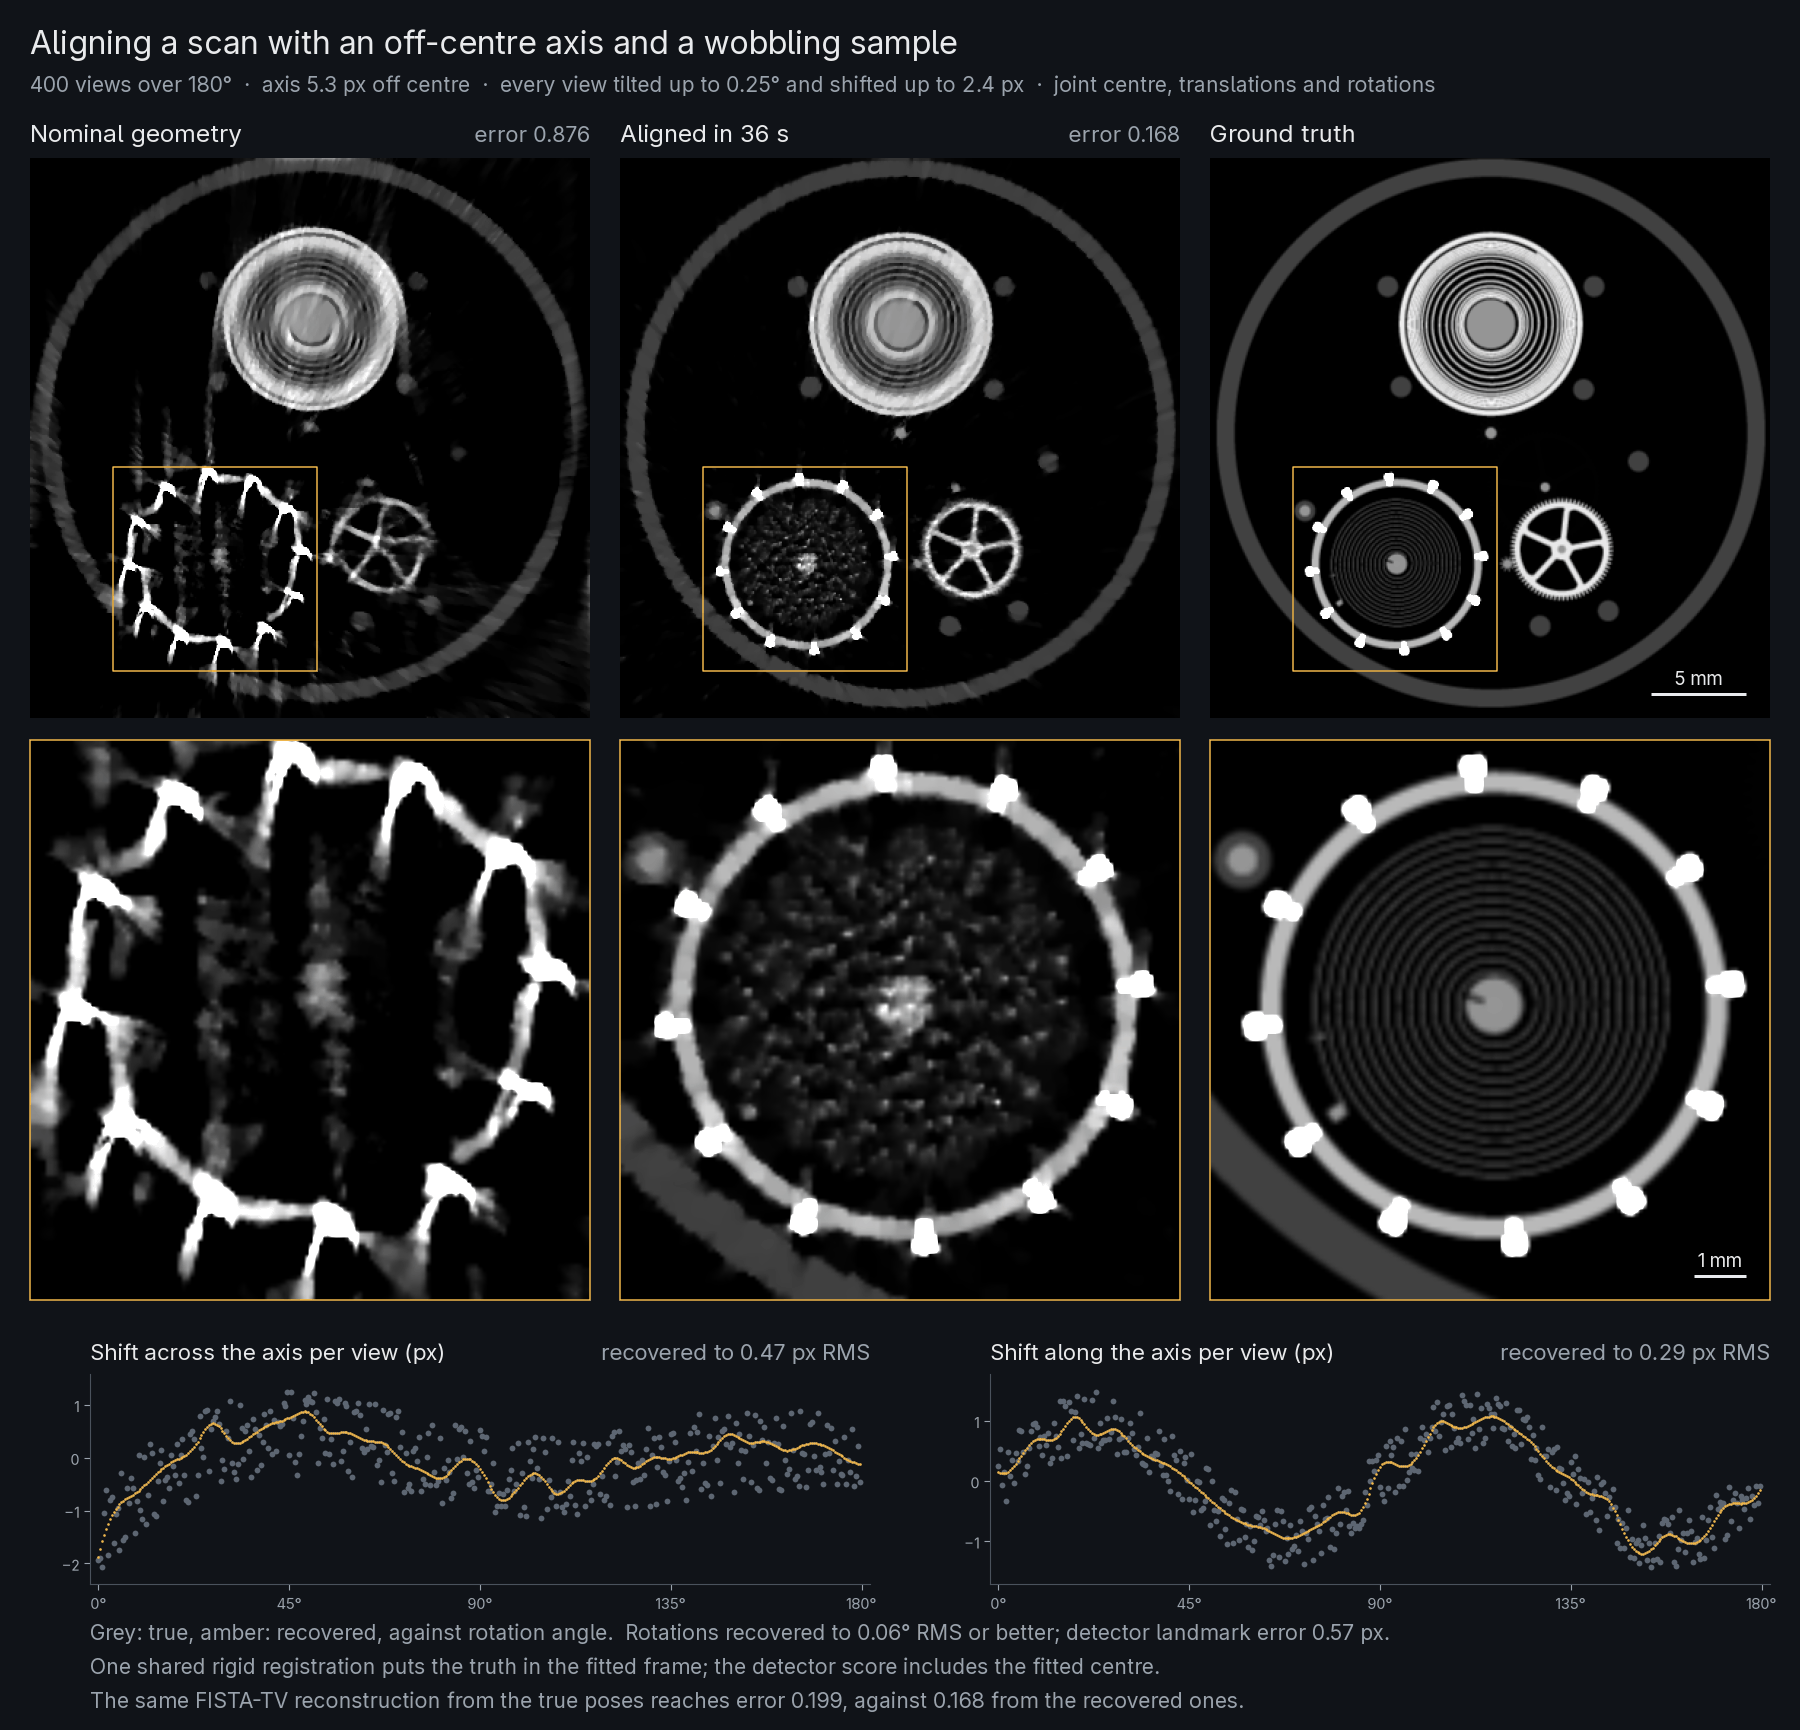
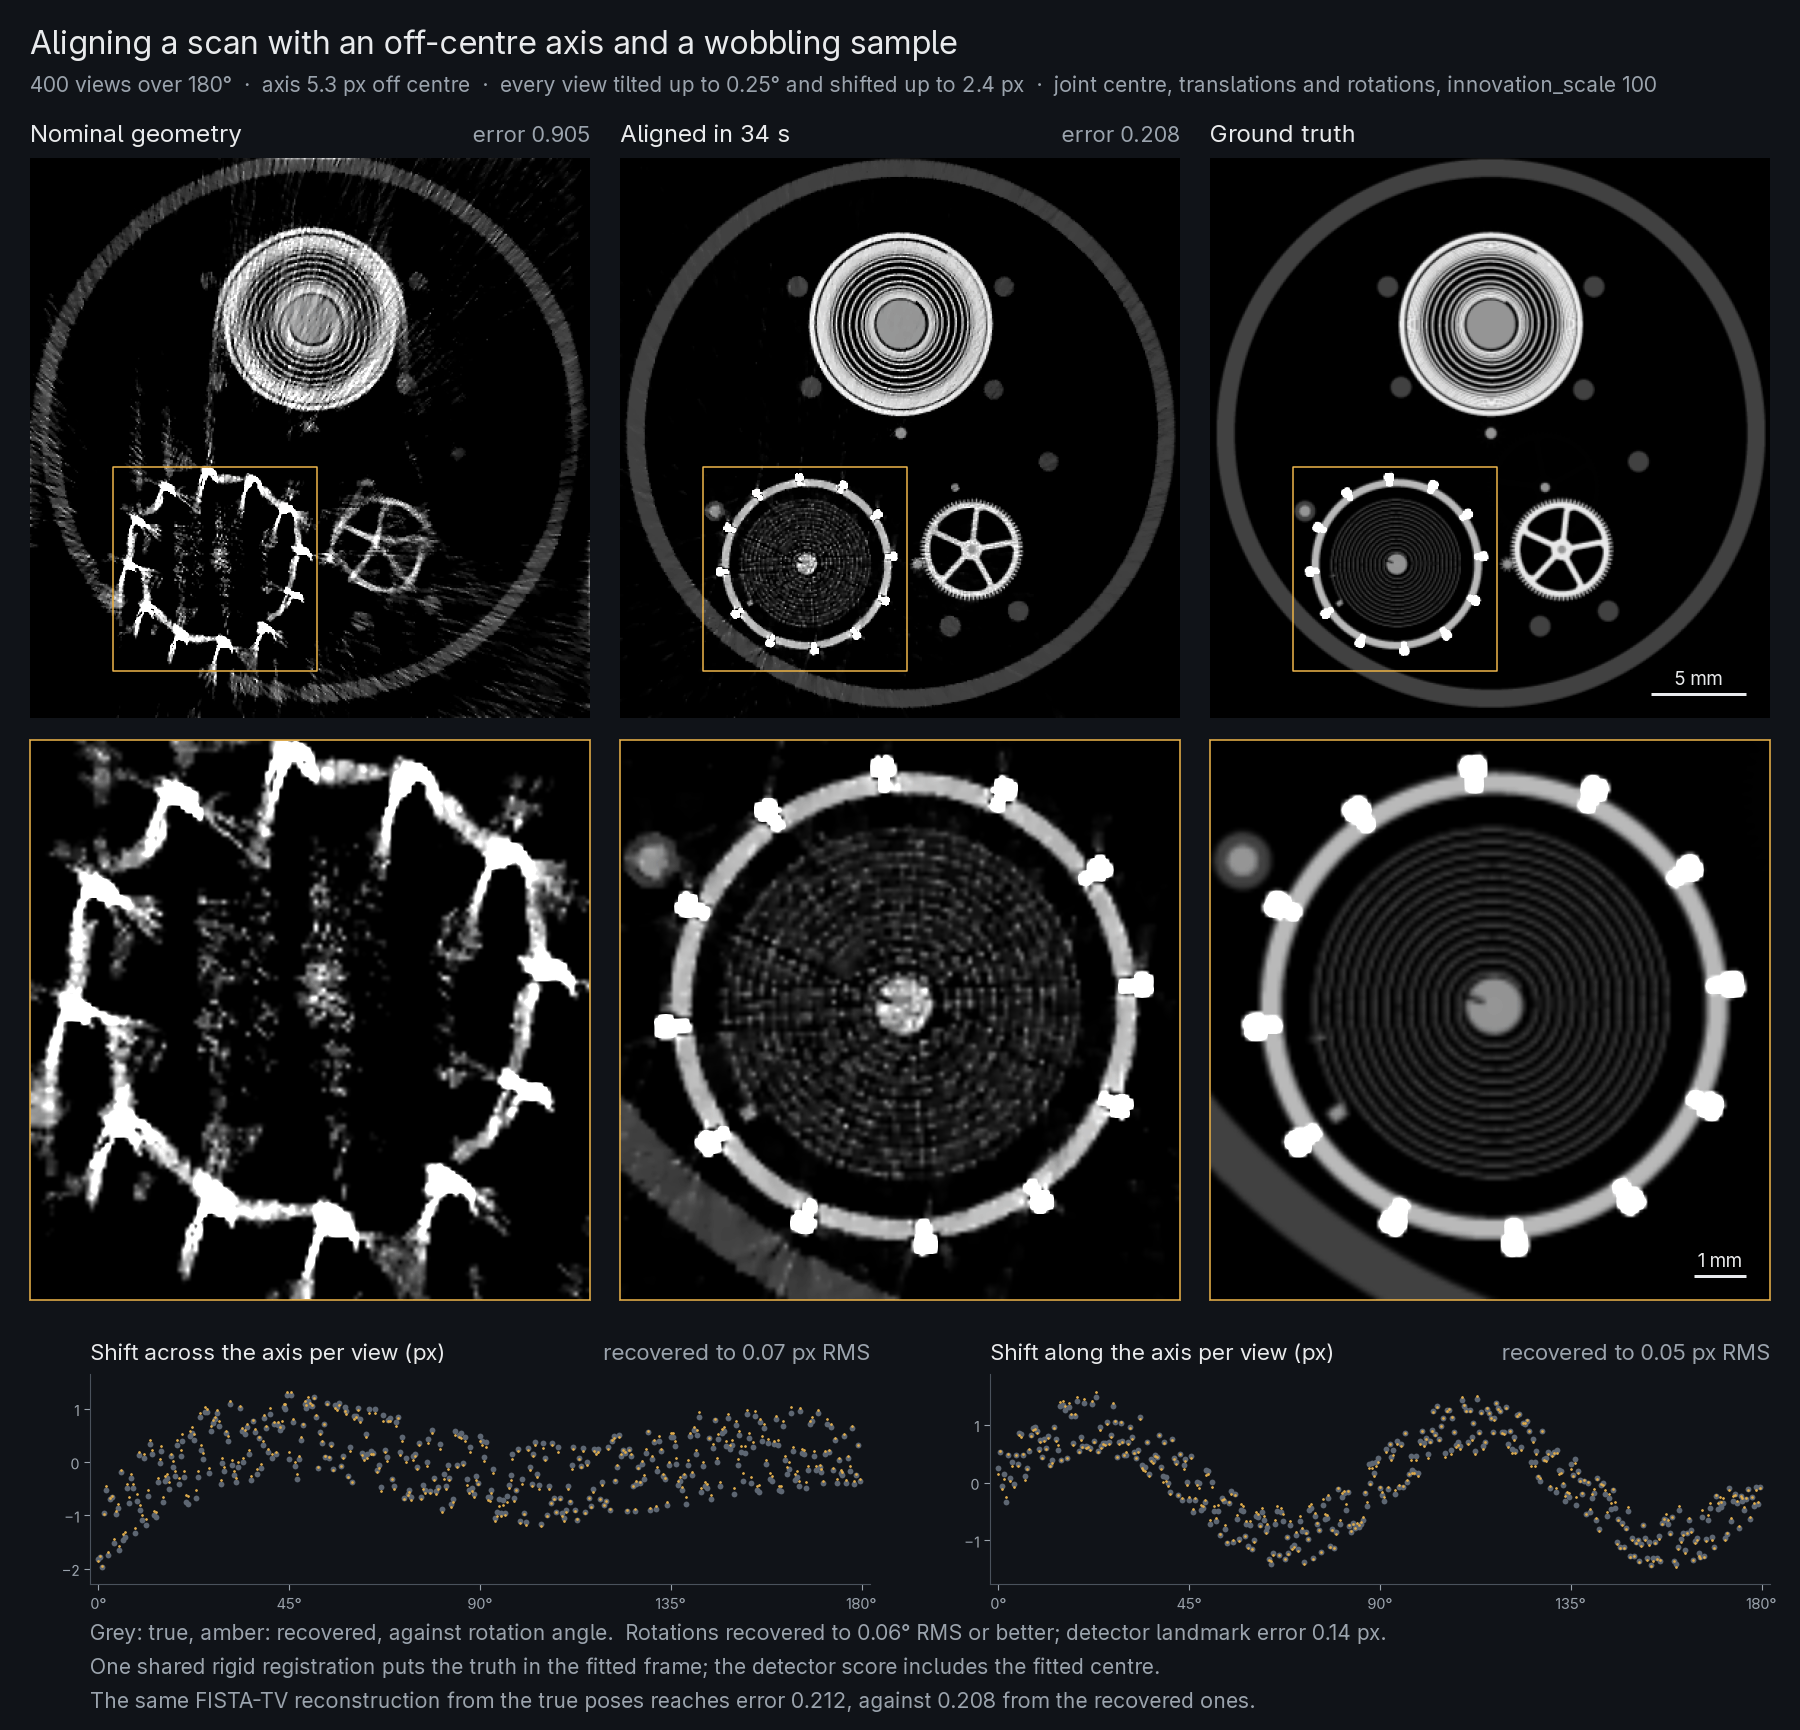
Align the README watch scan with innovation_scale=100 and keep its hairspring
The watch's stage jitters from view to view, which the default motion prior
leaves (shifts 0.47 / 0.29 px RMS). With AlignConfig(innovation_scale=100) the
fit follows it to 0.07 / 0.05 px in 34 s, and FISTA-TV at TV weight 1e-5 keeps
the hairspring that the automatic weight smooths away. The alignment guide says
when to raise innovation_scale, with the watch's numbers.

diff --git a/examples/align_watch.py b/examples/align_watch.py
@@ -6,8 +6,9 @@ The rotation axis projects 5.3 pixels off the detector centre, and every view
 has its own pose: a slow wobble of the sample plus jitter, up to 0.25° in each
 rotation and 2.4 pixels across and 1.5 pixels along the axis. gVXR traces the
 projections through the movement's meshes at those poses. ``tj.align`` fits
-``("center", "translations", "rotations")`` jointly with the volume; nominal
-and aligned scans are reconstructed with the same FISTA-TV settings.
+``("center", "translations", "rotations")`` jointly with the volume, with
+``AlignConfig(innovation_scale=100)`` because the stage jitters from view to view; nominal
+and aligned scans are reconstructed with the same FISTA-TV settings (TV weight 1e-5).
 
 A shared rigid movement of the object and its poses cannot be distinguished by
 projection data. After fitting, an independent SciPy registration compares 27
@@ -42,7 +43,10 @@ from tomojax.geometry import grid_volume_origin, stack_view_poses
 SIZE, LAYERS, FIELD, MIDDLE = 384, 82, 29.6, 3.0  # voxels, z layers, field (mm), centre z
 VIEWS, PHOTONS = 400, 2e4
 CENTER_PX, ROTATION_DEG = 5.3, 0.25
-RECONSTRUCTION = {"iterations": 100, "nonnegative": True, "warm_start": True}
+# A TV weight of 1e-5 keeps the hairspring; the automatic weight smooths it away.
+RECONSTRUCTION = {"iterations": 100, "tv_weight": 1e-5, "nonnegative": True, "warm_start": True}
+# The stage jitters from view to view, so the motion prior counts much larger steps as motion.
+ALIGNMENT = {"innovation_scale": 100.0}
 ZOOM = 140  # voxels on a side of the balance close-up
 
 
@@ -138,7 +142,7 @@ def run(args: argparse.Namespace) -> tuple[dict[str, np.ndarray], dict[str, obje
 
     start = time.perf_counter()
     fit = ("center", "translations", "rotations")
-    result = tj.align(scan, fit=fit)
+    result = tj.align(scan, fit=fit, config=tj.AlignConfig(**ALIGNMENT))
     align_seconds = time.perf_counter() - start
     before = np.asarray(tj.reconstruct(scan, "fista", **RECONSTRUCTION).volume)
     after = np.asarray(tj.reconstruct(result.scan, "fista", **RECONSTRUCTION).volume)
@@ -191,6 +195,7 @@ def run(args: argparse.Namespace) -> tuple[dict[str, np.ndarray], dict[str, obje
         "true_axis_offset_px": CENTER_PX,
         "motion": "wobble and jitter, up to 0.25 deg per rotation, 2.4 px dx, 1.5 px dz",
         "fit": list(fit),
+        "alignment_config": ALIGNMENT,
         "align_seconds": align_seconds,
         "reconstruction": {"method": "fista", **RECONSTRUCTION, "warm_start": "fbp"},
         "relative_l2_nominal": error(before, truth),
@@ -227,7 +232,7 @@ def plot(slices: dict[str, np.ndarray], metrics: dict[str, object], path: Path) 
         f"{metrics['views']} views over 180°  ·  axis "
         f"{metrics['true_axis_offset_px']:g} px off centre  ·  every view tilted up to "
         f"{ROTATION_DEG:g}° and shifted up to 2.4 px  ·  "
-        "joint centre, translations and rotations",
+        "joint centre, translations and rotations, innovation_scale 100",
         21,
         MUTED,
     )

diff --git a/examples/README.md b/examples/README.md
@@ -65,19 +65,20 @@ from it. Over the whole slab the relative L2 error is 0.357 for FBP and
 400 views over a half turn and 2 × 10⁴ photons per pixel. The rotation axis
 projects 5.3 px off the detector centre, and every view has its own pose: a
 slow wobble plus jitter of up to 0.25° in each rotation, 2.4 px across the axis
-and 1.5 px along it. `tj.align(scan, fit=("center", "translations", "rotations"))`
-takes 36 s. It recovers the rotations to 0.06° RMS or better and the shifts to
-0.47 px (across) and 0.29 px (along) RMS: it follows the slow wobble and leaves
-the view-to-view jitter. The error of a FISTA-TV reconstruction (automatic TV
-weight) falls from 0.876 with the nominal geometry to 0.168, against 0.199 with
-the true poses. The script takes about 4 minutes.
+and 1.5 px along it. Because the stage jitters from view to view,
+`tj.align(scan, fit=("center", "translations", "rotations"),
+config=tj.AlignConfig(innovation_scale=100))` is used; it takes 34 s. It recovers
+the rotations to 0.06° RMS or better and the shifts to 0.07 px (across) and
+0.05 px (along) RMS. The error of a FISTA-TV reconstruction (TV weight 1e-5, which
+keeps the hairspring) falls from 0.905 with the nominal geometry to 0.208, against
+0.212 with the true poses. The script takes about 2.5 minutes.
 
 Moving the whole movement rigidly, with every pose moved back, predicts the
 same data, as does trading the detector centre against a shift of every view,
 so `tj.align` reports the estimate with the least per-view motion. The truth,
 its poses and its centre are moved to that estimate before they are compared
 (see [where the aligned volume sits](../docs/align-a-scan.md#check-the-result));
-there the centre is found at 3.08 px.
+there the centre is found at 3.19 px.
 
 ### Volume-render a reconstruction
 

diff --git a/images/README.md b/images/README.md
@@ -40,8 +40,10 @@ the exact voxel average of the meshes, recorded in
 [alignment-example.png](alignment-example.png) comes from
 [align_watch.py](../examples/align_watch.py): 400 views on 77 µm voxels with
 the axis 5.3 px off centre and per-view wobble and jitter, aligned with
-`tj.align(scan, fit=("center", "translations", "rotations"))`. Both volumes
-are FISTA-TV reconstructions with the same settings and every panel shares one grey scale.
+`tj.align(scan, fit=("center", "translations", "rotations"),
+config=tj.AlignConfig(innovation_scale=100))`, since the stage jitters from view to
+view. Both volumes are FISTA-TV reconstructions with TV weight 1e-5, which keeps the
+hairspring, and every panel shares one grey scale.
 The truth, its poses and its centre are compared in the least-motion frame
 `tj.align` reports; [alignment-example.json](alignment-example.json) records
 the gauge removed and every error.

diff --git a/docs/align-a-scan.md b/docs/align-a-scan.md
@@ -93,6 +93,11 @@ view and is not motion, such as the model error of a real scan, raises that scal
 does not turn it into motion. A slip much larger than the scale is still followed, a little
 short where the scale is large.
 
+A stage that jitters from view to view is motion of that kind, and the default leaves it. Raise
+`innovation_scale` for such a stage: on the README's watch scan, with up to 0.8 px of jitter in
+every view, the default recovers the shifts to 0.47 px RMS and
+`config=tj.AlignConfig(innovation_scale=100)` to 0.07 px.
+
 ![The balance wheel with drift and five slips between views: the screws are doubled. After fit="translations" the image matches the true geometry.](images/alignment-ladder-drift.png)
 
 The default, `fit="translations"`, removes the drift and slips in this example to 0.008 px in
